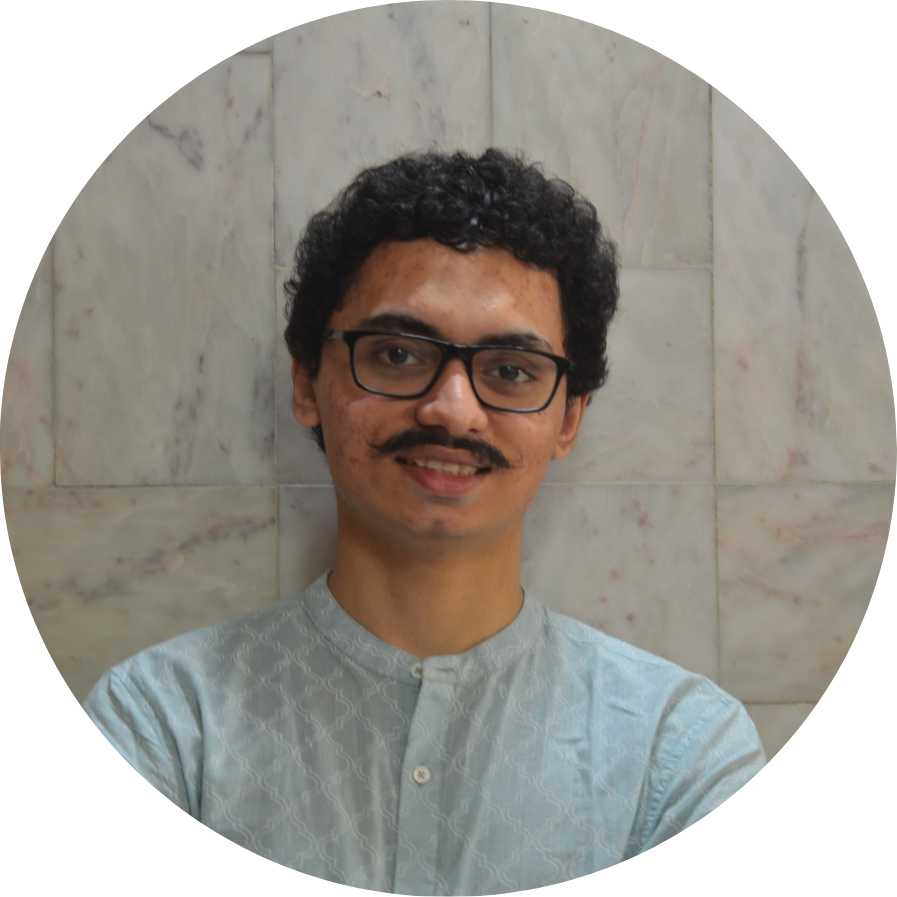
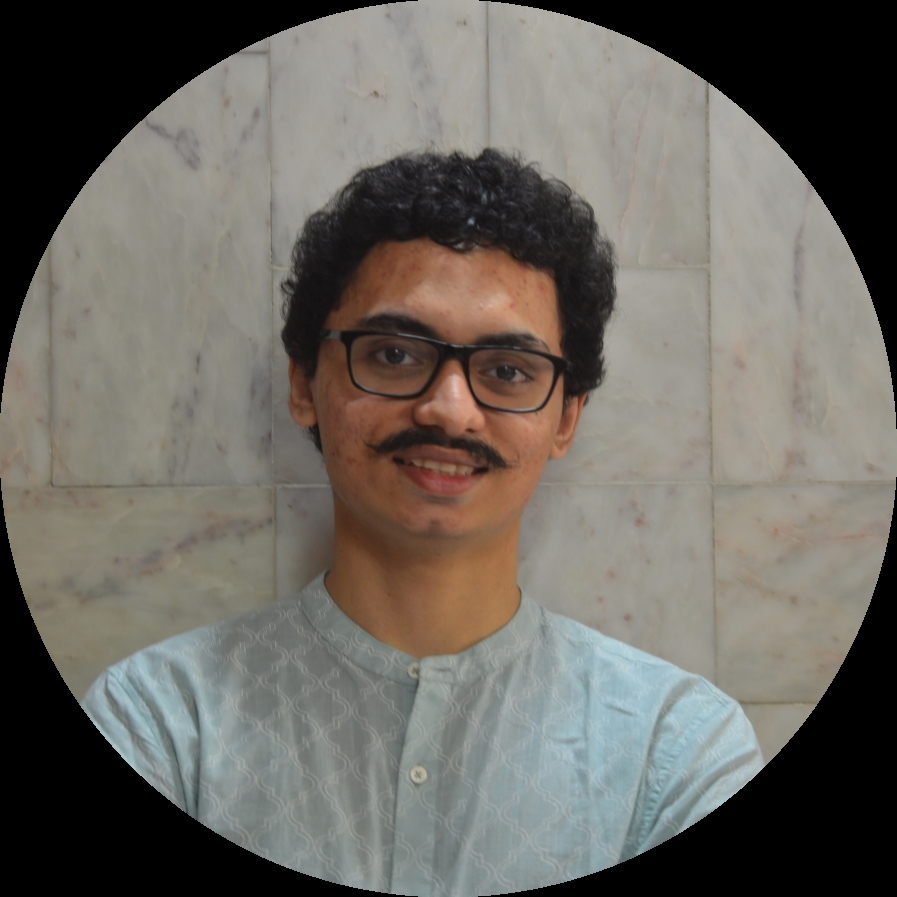
Reduced size of frontpage image

diff --git a/CSS/frontpage.css b/CSS/frontpage.css
@@ -18,7 +18,7 @@
 #frontpage_img img {
     width: 100%;
     height: auto;
-    border: 5px solid black;
+    border: 5px solid yellowgreen;
     border-radius: 50%;
 }
 
